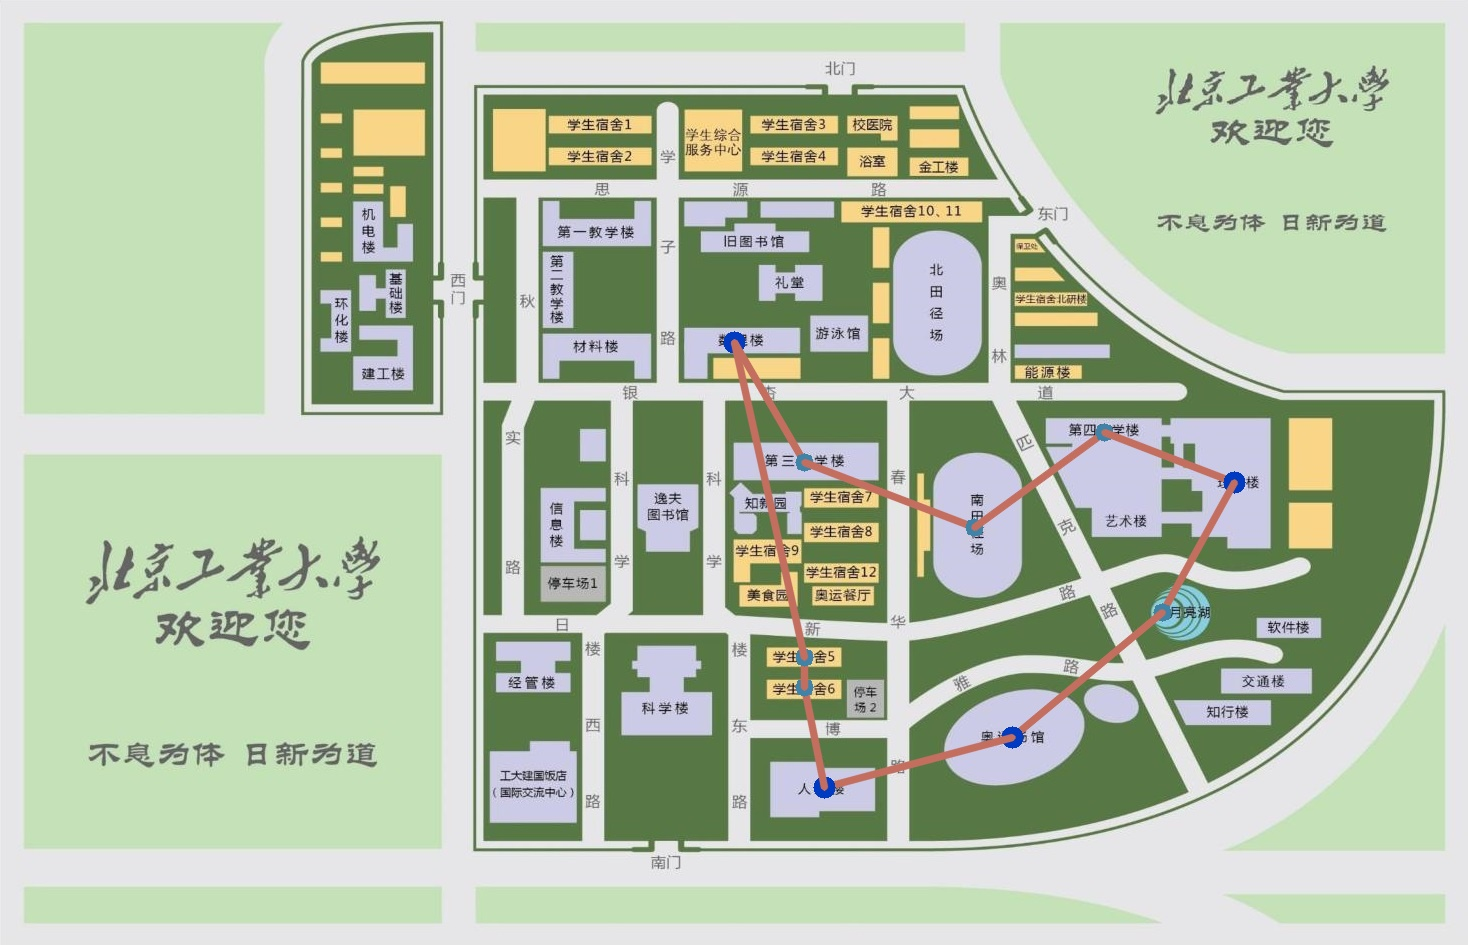
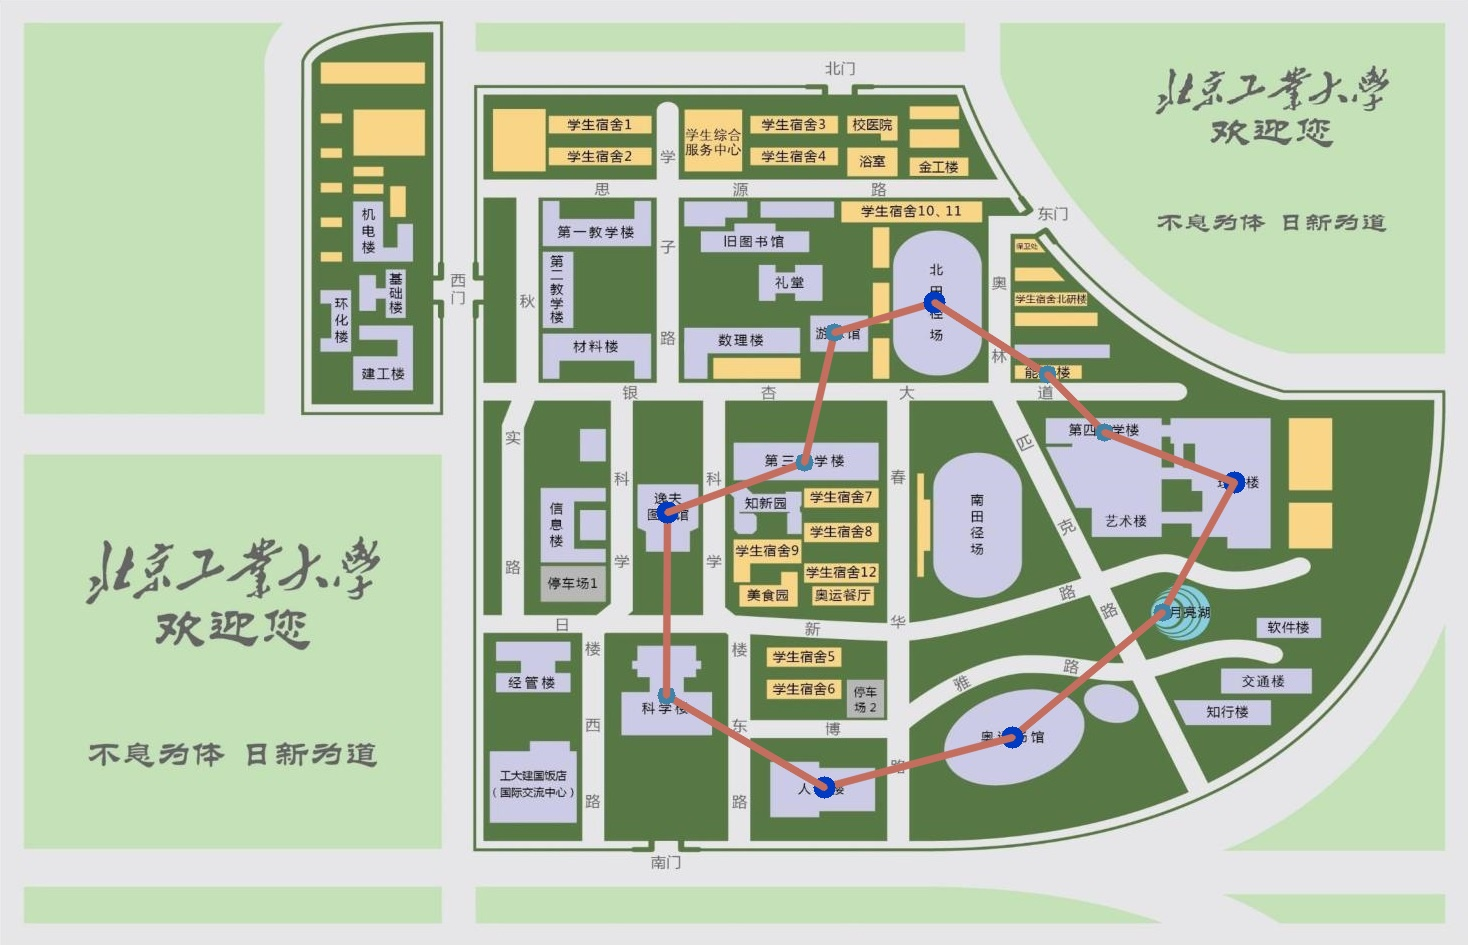
添加了拓展按钮，尚未实现功能

diff --git a/code/html.html b/code/html.html
@@ -1,0 +1,14 @@
+<!DOCTYPE html>
+<html lang="en">
+<head>
+    <meta charset="UTF-8">
+    <meta http-equiv="X-UA-Compatible" content="IE=edge">
+    <meta name="viewport" content="width=device-width, initial-scale=1.0">
+    <title>Document</title>
+</head>
+<body>
+    <div>
+        test
+    </div>
+</body>
+</html>

diff --git a/code/widget.py b/code/widget.py
@@ -74,7 +74,6 @@ class MainWindow(QWidget):
         self.MainText.setFont(font_MainText)
         self.MainText.setText(
             "也正是因为这种特性，微软仅建议将 Mica 用在窗口的基础图层上。如此一来既能起到突出窗口主体的效果，又不会因为应用在弹窗这种地方但却无法实时透明带来令人困惑的视觉效果。事实上，如果仅仅从视觉效果上来说，Mica 更像是一种亚克力的「低配版」，或者说 Windows 11 针对一些需要长时间、频繁打开的窗口（比如资源管理器、系统设置）推出的「低功耗定制版」。如果运用得当，它比传统的纯色窗口标题栏更加温婉、细腻，同时又不会像亚克力那样带来太多额外的性能开销。其他方面 Mica 则与亚克力大同小异了，比如支持明、暗色切换，在窗口失焦时会自动回落到纯色效果等等。")
-
         self.xiaohui = QLabel(Widget)
         self.xiaohui.setGeometry(QRect(200, 10, 111, 111))
         # self.xiaohui.setContextMenuPolicy(Qt.DefaultContextMenu)
@@ -159,6 +158,22 @@ class MainWindow(QWidget):
         self.GetBack.setObjectName("GetBack")
         self.GetBack.clicked.connect(self.CloseBubble)
         self.horizontalLayout.addWidget(self.GetBack)
+
+        #TODO 获取路线的按钮
+        self.ChangeRoad = QPushButton(self)
+        self.ChangeRoad.setGeometry(QRect(100, 170, 95, 50))
+        self.ChangeRoad.setStyleSheet("background:rgb(197, 225, 184)")
+        self.ChangeRoad.setObjectName("ChangeRoad")
+
+        self.GetBetterRoad = QPushButton(self)
+        self.GetBetterRoad.setGeometry(QRect(100, 240, 95, 50))
+        self.GetBetterRoad.setStyleSheet("background:rgb(197, 225, 184)")
+        self.GetBetterRoad.setObjectName("GetBetterRoad")
+
+        self.Start = QPushButton(self)
+        self.Start.setGeometry(QRect(100,310,95,50))
+        self.Start.setStyleSheet("background:rgb(197, 225, 184)")
+        self.Start.setObjectName("Start")
 
         # 清除全部选择
         self.clearall = QPushButton(self.layoutWidget)
@@ -534,6 +549,10 @@ class MainWindow(QWidget):
         self.TSP_button.setText(_translate("Widget", "TSP"))
         self.TSPwr_button.setText(_translate("Widget", "TSP without return"))
         self.by_order_button.setText(_translate("Widget", "by order"))
+        #TODO 控件命名
+        self.GetBetterRoad.setText(_translate("Widget","简化路线"))
+        self.Start.setText(_translate("Widget","出发"))
+        self.ChangeRoad.setText(_translate("Widget","换条路线"))
 
         self.A1.setToolTip(_translate("Widget", "宿舍2号楼"))
         self.A2.setToolTip(_translate("Widget", "天天餐厅&学生综合服务大厅"))
